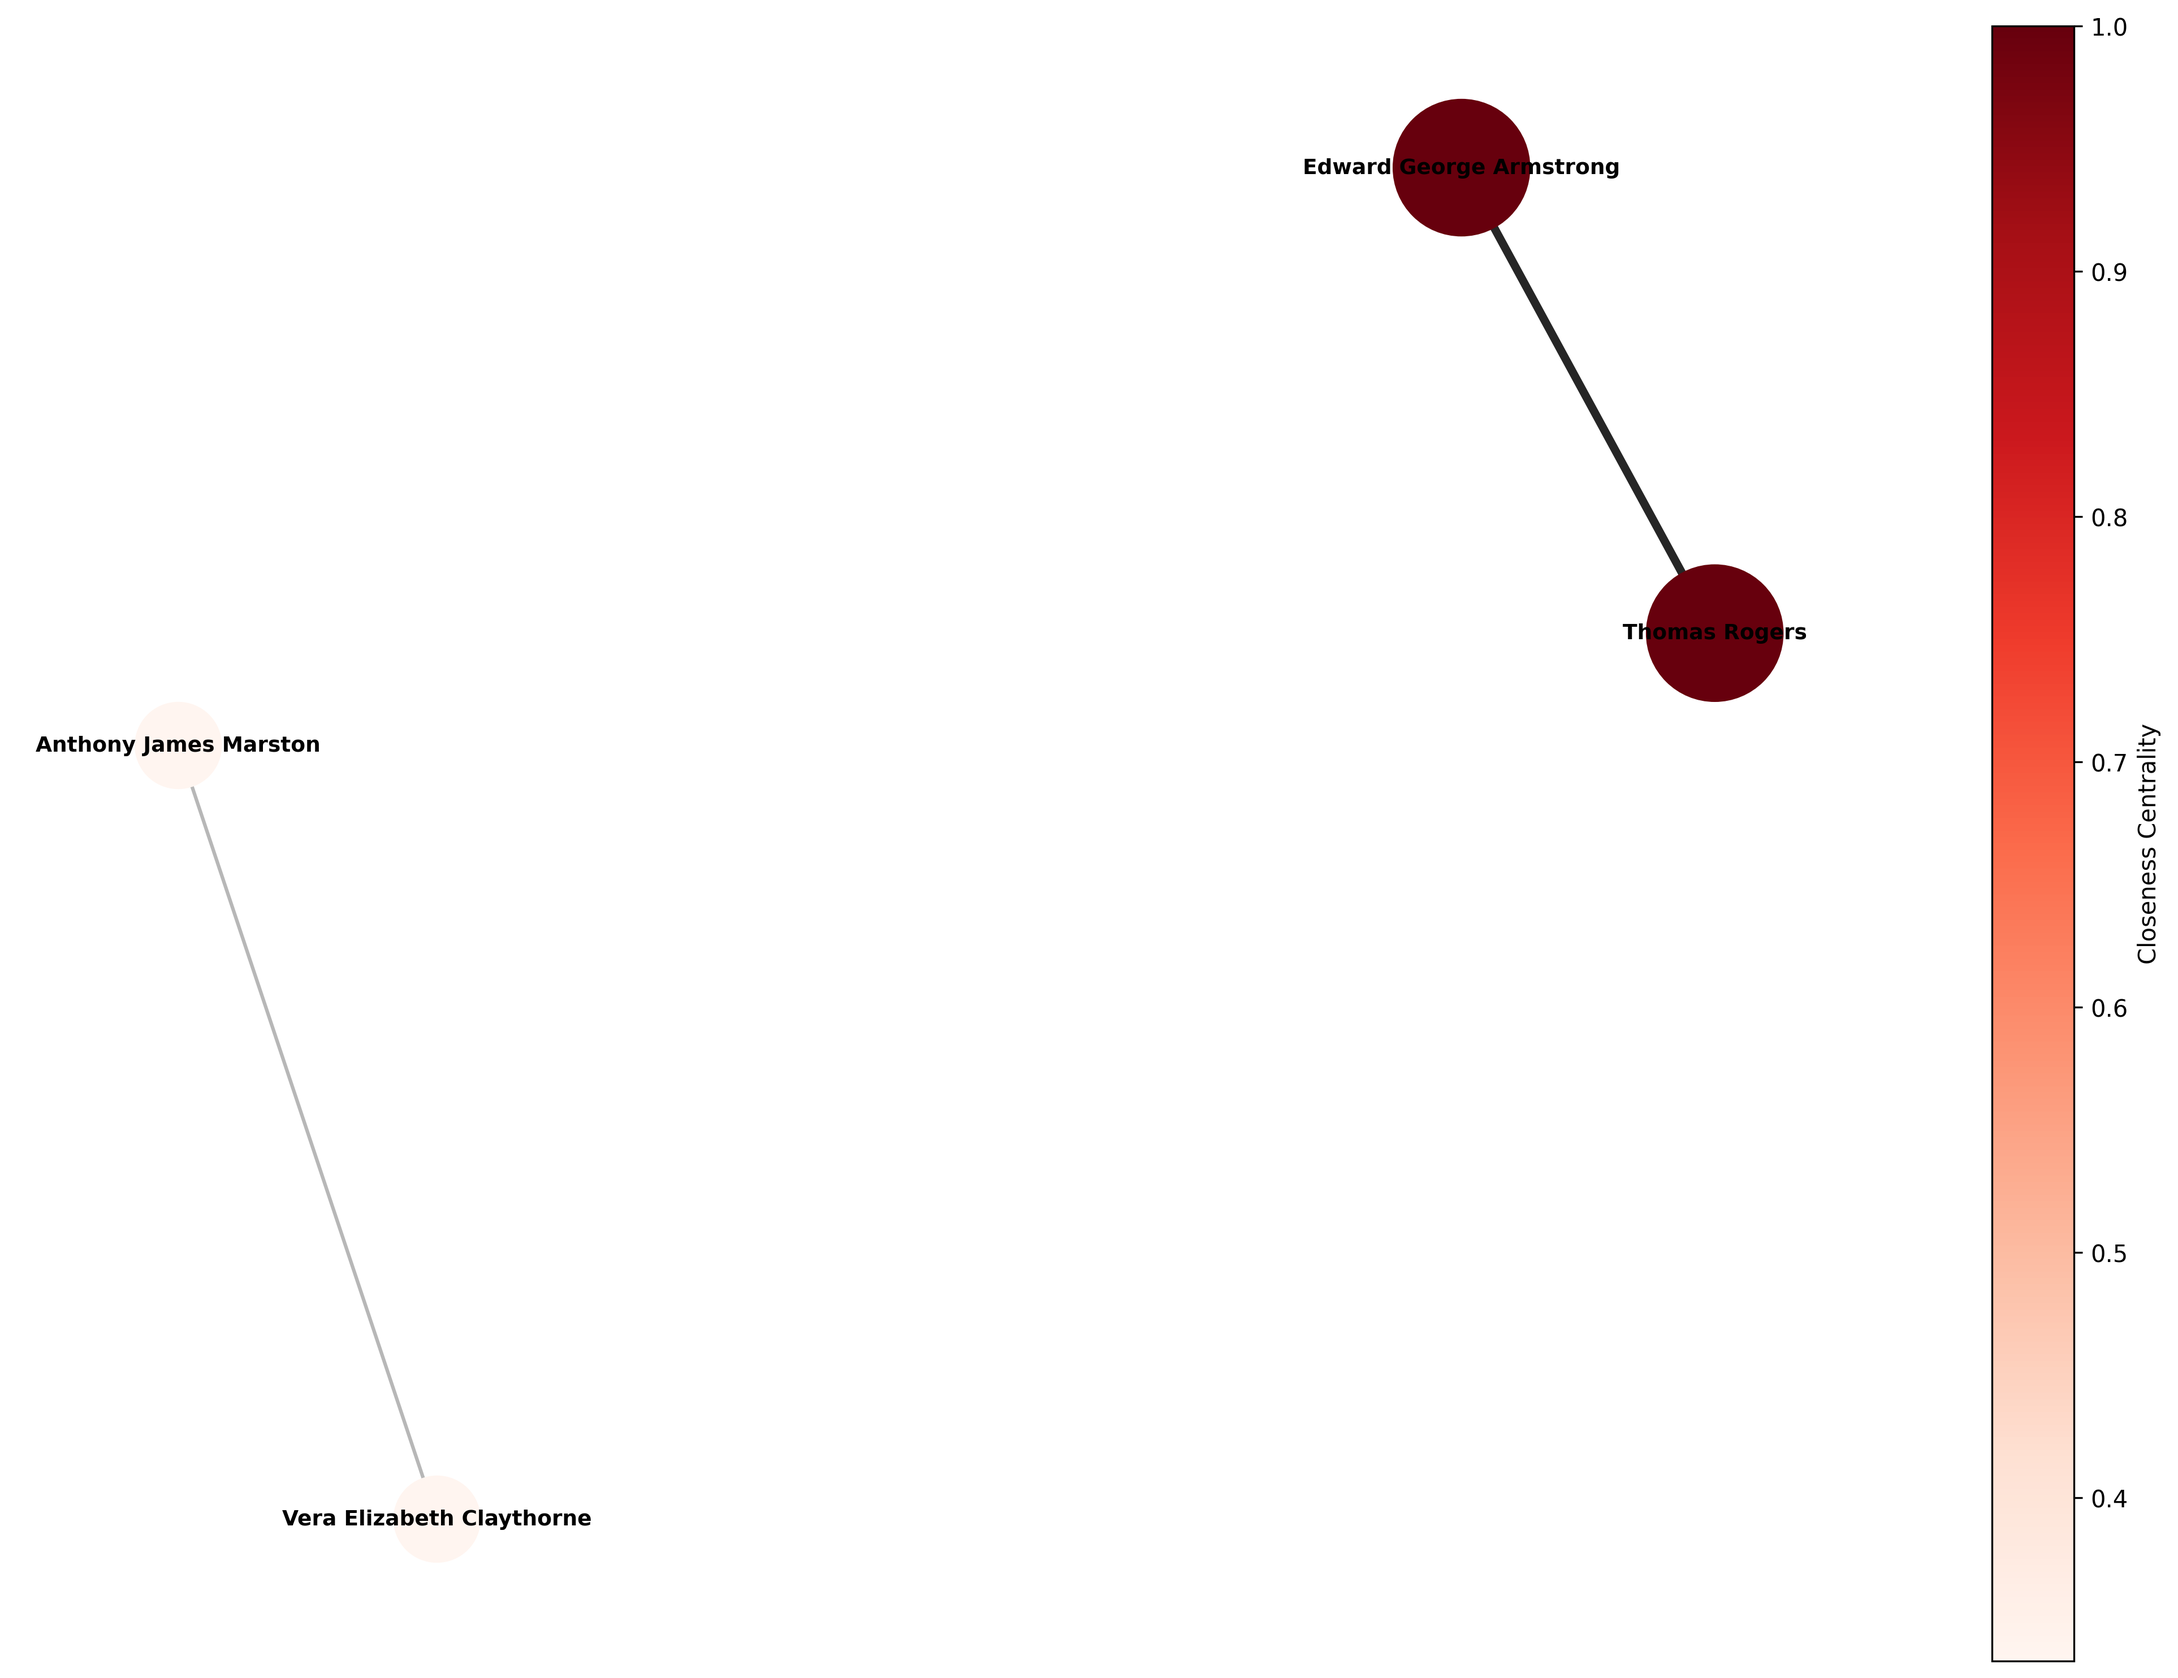
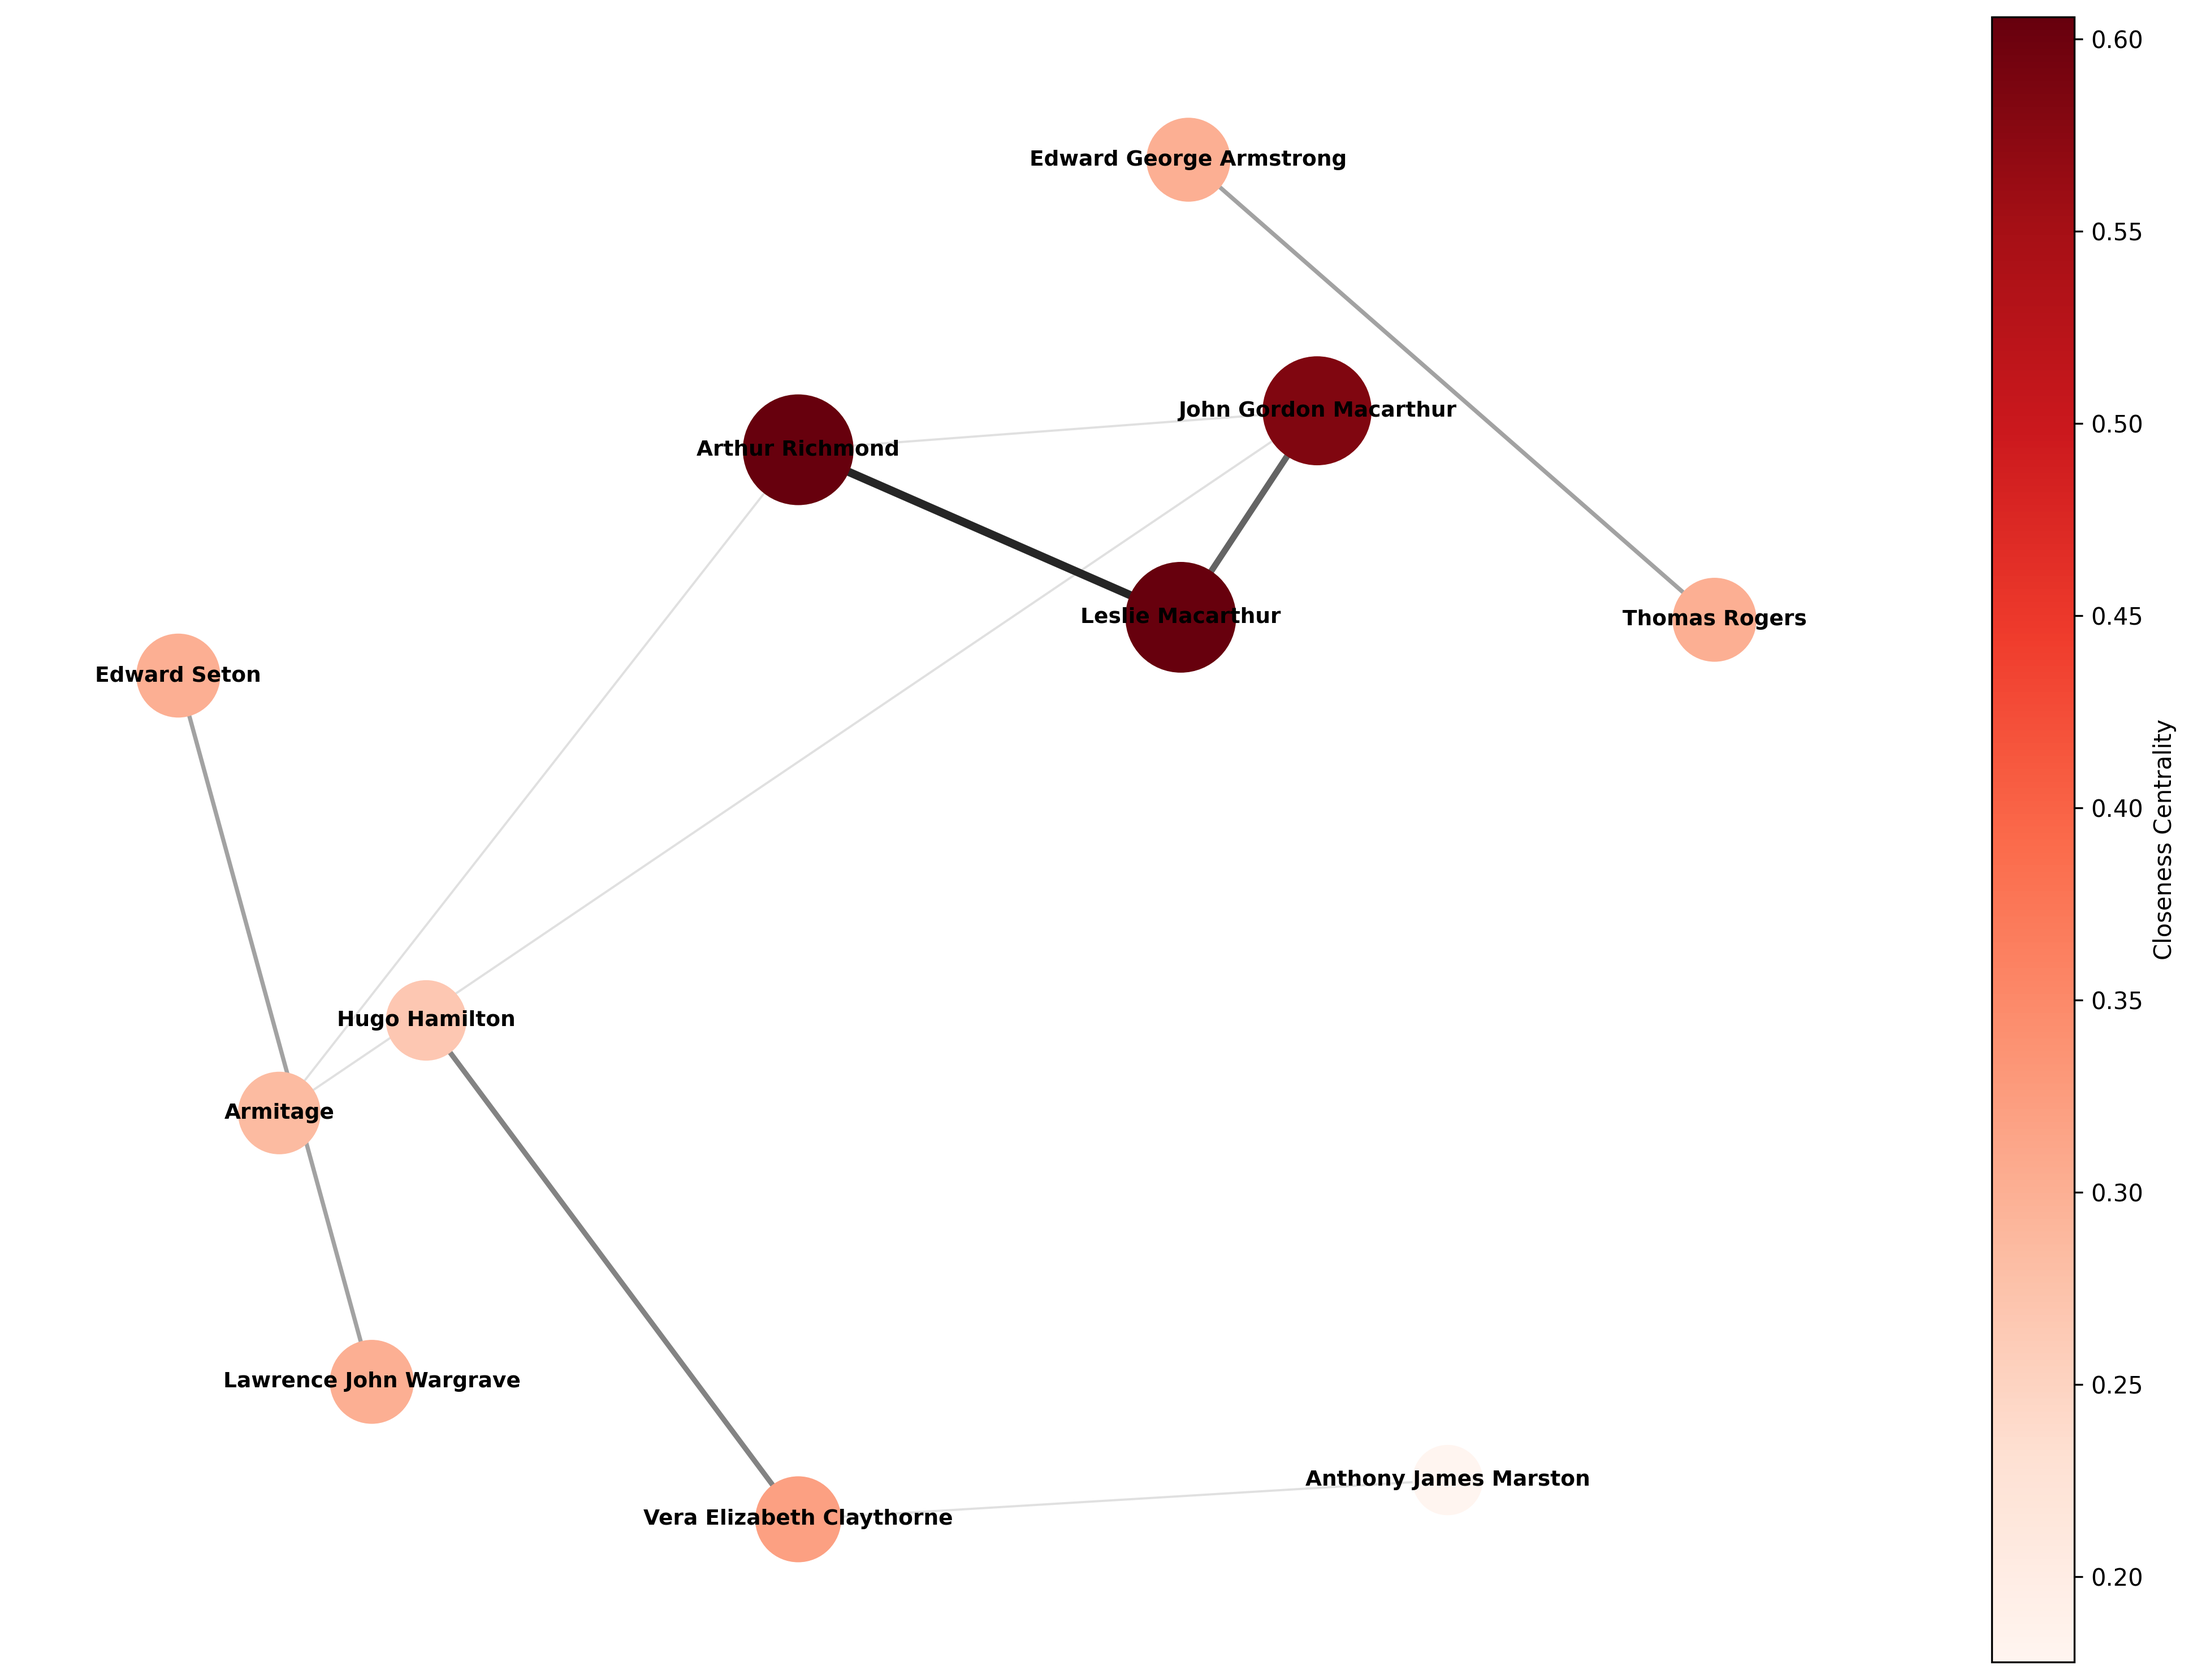
last analysis

diff --git a/network_analysis/na.py b/network_analysis/na.py
@@ -247,6 +247,25 @@ def network_analysis(G):
     print('\n\nBETWEENNESS CENTRALITY')
     display_results(nx.betweenness_centrality(G))
 
+    print('\n\nWEIGHTED BETWEENNESS CENTRALITY')
+
+    # Converti multigraph a grafo pesato semplice per closeness
+    if isinstance(G, nx.MultiGraph) or isinstance(G, nx.MultiDiGraph):
+        G_betw = nx.Graph()
+        for u, v in G.edges():
+            if G_betw.has_edge(u, v):
+                G_betw[u][v]['weight'] += 1
+            else:
+                G_betw.add_edge(u, v, weight=1)
+    else:
+        G_betw = G
+
+    for u, v, d in G_betw.edges(data=True):
+        d['weight'] = 1 / d['weight']
+
+
+    display_results(nx.betweenness_centrality(G_betw, weight='weight'))
+
 
     print('\n\nCLOSENESS CENTRALITY')
     display_results(nx.closeness_centrality(G))
@@ -304,6 +323,27 @@ def network_analysis(G):
     except Exception as e:
         # Catches other potential mathematical errors (e.g., alpha too large)
         print(f'Analysis Failed: An error occurred during Katz calculation ({e})')
+
+
+
+    print('\n\nWEIGHTED KATZ CENTRALITY')
+
+    # Converti multigraph a grafo pesato semplice per closeness
+    for u, v, d in G_betw.edges(data=True):
+        d['weight'] = 1 / d['weight']
+
+    try:
+        # Katz is sensitive to the alpha parameter
+        katz_cent = nx.katz_centrality(G_betw, max_iter=800, alpha=0.005, weight='weight')
+        display_results(katz_cent)
+    except nx.PowerIterationFailedConvergence:
+        print('Analysis Failed: Katz centrality failed to converge.')
+    except nx.NetworkXPointlessConcept:
+            print("Analysis Failed. PointlessConcept. Cannot compute centrality for the null graph")
+    except Exception as e:
+        # Catches other potential mathematical errors (e.g., alpha too large)
+        print(f'Analysis Failed: An error occurred during Katz calculation ({e})')
+
 
 def visualize(G):
     # Converti multigraph a grafo semplice se necessario
@@ -496,7 +536,7 @@ def full_analysis(file, division, only_main_characters, visualization, analysis,
             if sentiment==True:
                 visualize_sentiment_graph(G, se)
             else:
-                visualize_closeness(G, se)
+                visualize_simple_network(G, se)
 
         if analysis==True:
             network_analysis(G)
@@ -534,7 +574,7 @@ def simplify_multigraph(mg):
     # Crea un grafo semplice (Graph) partendo dai nodi del multigrafo
     g = nx.Graph()
     # Calcola la molteplicità di ogni coppia (u, v) e imposta il peso come 1/molteplicità
-    g.add_edges_from((u, v, {'weight': 1/mg.number_of_edges(u, v)}) for u, v in mg.edges())
+    g.add_edges_from((u, v, {'weight': mg.number_of_edges(u, v)}) for u, v in mg.edges())    # {'weight': 1/mg.number_of_edges(u, v)}
     return g
 
 def print_graph_summary(g):
@@ -595,35 +635,27 @@ def calculate_closeness_evolution(graphs_list):    # the graph_list must be base
     plot_centrality_evolution(labels, characters_closeness_centralities)
 
 
+def calculate_closeness_evolution(graphs_list):    # the graph_list must be based on deaths
+    # this list is useful to calculate closeness based on distance:
+    weighted_graphs_list=[]
+    for mg in graphs_list:
+        weighted_graphs_list.append(simplify_multigraph(mg))
+
+    characters_closeness_centralities={}
+    for ch in main_characters:
+        characters_closeness_centralities[ch]=[]
+        for step in weighted_graphs_list:
+            if ch in step.nodes:
+                cl=nx.closeness_centrality(step, distance='weight')[ch]            
+            else:
+                cl=0
+            characters_closeness_centralities[ch].append(cl)
+
+    labels=list(deaths.keys())
+    plot_centrality_evolution(labels, characters_closeness_centralities)
 
 
 GREEN     = "#2ca02c"
-
-
-def create_png_multidigraph(G, filename='graph.png'):
-    """
-    Crea un'immagine PNG del multidigraph con etichette sugli edges basate sull'attributo 'label'.
-
-    Parametri:
-    - G: networkx.MultiDiGraph
-    - filename: str, percorso del file PNG da salvare
-    """
-    pos = nx.spring_layout(G, k=1.5, iterations=50, seed=42)
-    fig, ax = plt.subplots(figsize=(14, 10))
-    nx.draw(G, pos, with_labels=True, node_size=800, font_size=10, node_color='skyblue', edge_color='gray', ax=ax)
-    
-    edge_labels = {}
-    for u, v, key, data in G.edges(keys=True, data=True):
-        label = data.get('label', '')
-        edge_labels[(u, v, key)] = label
-    
-    nx.draw_networkx_edge_labels(G, pos, edge_labels, font_size=7, ax=ax)
-    
-    plt.title('Multidigraph Visualization with Edge Labels')
-    plt.axis('off')
-    plt.savefig(filename, dpi=300, bbox_inches='tight')
-    plt.close()
-    print(f"Grafo salvato come {filename}")
 RED       = "#d62728"
 GRAY      = "#999999"
 WIDTH_MIN = 0.5
@@ -723,7 +755,7 @@ def visualize_sentiment_graph(G: nx.Graph, title: str = "sentiment_graph"):
 
 def calculate_sentiment_evolution(graphs_list):
     
-    main_characters=["Lawrence John Wargrave",'Owen']   #if we want to specify only some characters
+    #main_characters=["Lawrence John Wargrave",'Owen']   #if we want to specify only some characters
 
     characters_sentiment_evolution={}
     for ch in main_characters:
@@ -831,3 +863,151 @@ def plot_sentiment_evolution(labels, characters_data):
     plt.tight_layout()
     plt.show()
 
+
+def create_png_multidigraph(G, filename='graph.png'):
+    """
+    Crea un'immagine PNG del multidigraph con etichette sugli edges basate sull'attributo 'label'.
+
+    Parametri:
+    - G: networkx.MultiDiGraph
+    - filename: str, percorso del file PNG da salvare
+    """
+    pos = nx.spring_layout(G, k=1.5, iterations=50, seed=42)
+    fig, ax = plt.subplots(figsize=(14, 10))
+    nx.draw(G, pos, with_labels=True, node_size=800, font_size=10, node_color='skyblue', edge_color='gray', ax=ax)
+    
+    edge_labels = {}
+    for u, v, key, data in G.edges(keys=True, data=True):
+        label = data.get('label', '')
+        edge_labels[(u, v, key)] = label
+    
+    nx.draw_networkx_edge_labels(G, pos, edge_labels, font_size=7, ax=ax)
+    
+    plt.title('Multidigraph Visualization with Edge Labels')
+    plt.axis('off')
+    plt.savefig(filename, dpi=300, bbox_inches='tight')
+    plt.close()
+    print(f"Grafo salvato come {filename}")
+
+
+def plot_degrees(G):
+
+    print(type(G))
+    # 1. Estrai e ordina i dati (dal personaggio con più archi a quello con meno)
+    # G.degree() restituisce una vista (nodo, grado) che tiene conto degli archi multipli
+    dati_ordinati = sorted(G.degree(), key=lambda x: x[1], reverse=True)
+    nomi, gradi = zip(*dati_ordinati)
+
+    # 2. Configura il grafico
+    plt.figure(figsize=(10, 6))
+    barre = plt.bar(nomi, gradi, color='skyblue', edgecolor='navy')
+
+    # 3. Aggiungi il numero esatto sopra ogni barra
+    for barra in barre:
+        yval = barra.get_height()
+        plt.text(barra.get_x() + barra.get_width()/2, yval + 0.05, int(yval), ha='center', va='bottom')
+
+    # 4. Estetica e labels
+    plt.title("Number of Edges", fontsize=14)
+    plt.ylabel("Count of Edges")
+    plt.xticks(rotation=90)
+    plt.grid(axis='y', linestyle='--', alpha=0.7)
+
+    plt.tight_layout()
+
+    # Salvataggio
+    output_dir = 'network_analysis/networks'
+    if not os.path.exists(output_dir):
+        os.makedirs(output_dir)
+    
+    plt.savefig(f'{output_dir}/degrees.png', dpi=300, bbox_inches='tight')
+
+
+def disegna_grafo_indiani(G):
+    # Calcoliamo lo spessore in base a quante connessioni ci sono tra i nodi
+    # Creiamo un grafo semplice per la visualizzazione, salvando il conteggio
+    display_graph = nx.Graph()
+    for u, v, data in G.edges(data=True):
+        if display_graph.has_edge(u, v):
+            display_graph[u][v]['weight'] += 1
+        else:
+            display_graph.add_edge(u, v, weight=1)
+
+    plt.figure(figsize=(12, 8))
+    pos = nx.spring_layout(display_graph, seed=42) # Layout circolare o a molla
+    
+    # Estraiamo i pesi per definire lo spessore degli archi
+    weights = [display_graph[u][v]['weight'] * 2 for u, v in display_graph.edges()]
+
+    nx.draw(
+        display_graph, pos, 
+        with_labels=True, 
+        node_color='skyblue', 
+        node_size=3000, 
+        font_size=10, 
+        font_weight='bold', 
+        width=weights,  # Qui applichiamo lo spessore variabile
+        edge_color='gray'
+    )
+    
+    plt.title("Rapporti tra i personaggi di 'Dieci Piccoli Indiani'")
+    plt.show()
+
+
+def visualize_simple_network(G, title):
+    # 1. Conversione a grafo pesato semplice (stessa logica precedente)
+    if isinstance(G, (nx.MultiGraph, nx.MultiDiGraph)):
+        G_simple = nx.Graph()
+        for u, v in G.edges():
+            if G_simple.has_edge(u, v):
+                G_simple[u][v]['weight'] += 1
+            else:
+                G_simple.add_edge(u, v, weight=1)
+    else:
+        G_simple = G
+
+    # 2. Layout
+    pos = nx.spring_layout(G_simple, k=2, iterations=50, seed=42)
+
+    # 3. Configurazione Archi (spessore e colore in base al peso)
+    edge_weights = [G_simple[u][v]['weight'] for u, v in G_simple.edges()]
+    max_w = max(edge_weights) if edge_weights else 1
+    edge_widths = [0.5 + (w / max_w) * 3 for w in edge_weights]
+    
+    # Scala di grigi per gli archi
+    edge_colors = [(1 - w/max_w * 0.85, 1 - w/max_w * 0.85, 1 - w/max_w * 0.85) for w in edge_weights]
+
+    # 4. Figura
+    fig, ax = plt.subplots(figsize=(14, 10))
+
+    # --- DISEGNO NODI (Colore e dimensione fissi) ---
+    nx.draw_networkx_nodes(G_simple, pos,
+                           node_size=800,
+                           node_color='skyblue', # Colore unico
+                           edgecolors='navy',    # Bordo del nodo
+                           linewidths=1,
+                           ax=ax)
+
+    # --- DISEGNO LABELS ---
+    nx.draw_networkx_labels(G_simple, pos,
+                            font_size=9,
+                            font_weight='bold',
+                            ax=ax)
+
+    # --- DISEGNO ARCHI ---
+    nx.draw_networkx_edges(G_simple, pos,
+                           edge_color=edge_colors,
+                           width=edge_widths,
+                           alpha=0.7,
+                           ax=ax)
+
+    ax.set_title(title, fontsize=16)
+    ax.axis('off')
+    plt.tight_layout()
+
+    # Salvataggio
+    output_dir = 'network_analysis/networks'
+    if not os.path.exists(output_dir):
+        os.makedirs(output_dir)
+    
+    plt.savefig(f'{output_dir}/{title}.png', dpi=300, bbox_inches='tight')

diff --git a/network_analysis/main.py b/network_analysis/main.py
@@ -6,15 +6,15 @@ story_splitted={'before_trial':[(0,32904),()], 'from_trial':[(32905,60964),()]}
 
 
 graphs_list=full_analysis(file="network_analysis/data/processed_triples_updated.csv",     #if you want wargrave and owen as the same node, you can imput the file edge_list.csv
-                            division=story,                    #here you can also put division=blocks or division=chapters as parameters
+                            division=story_splitted,                    #here you can also put division=blocks or division=chapters as parameters
                             only_main_characters=True,          #here you choose if the nodes are only the ten protagonists or not
-                            visualization=True,                 #this creates the images in a folder entitled 'networks'
-                            analysis=False,                     #this prints the measures results
+                            visualization=False,                 #this creates the images in a folder entitled 'networks'
+                            analysis=True,                     #this prints the measures results
                             sentiment=False)                   #special parameter, only for returning graphs with sentiment 
 
-create_png_multidigraph(graphs_list[0])
-
 #calculate_sentiment_evolution(graphs_list)
+#disegna_grafo_indiani(graphs_list[0])
+#plot_degrees(graphs_list[0])
 
 print('\n\nDONE! 🥳🎉')
 #nx.write_gexf(G, 'graph.gexf')  #If you activate this operation, you get a file you can put in GEPHI software and there you can perform further analysis
